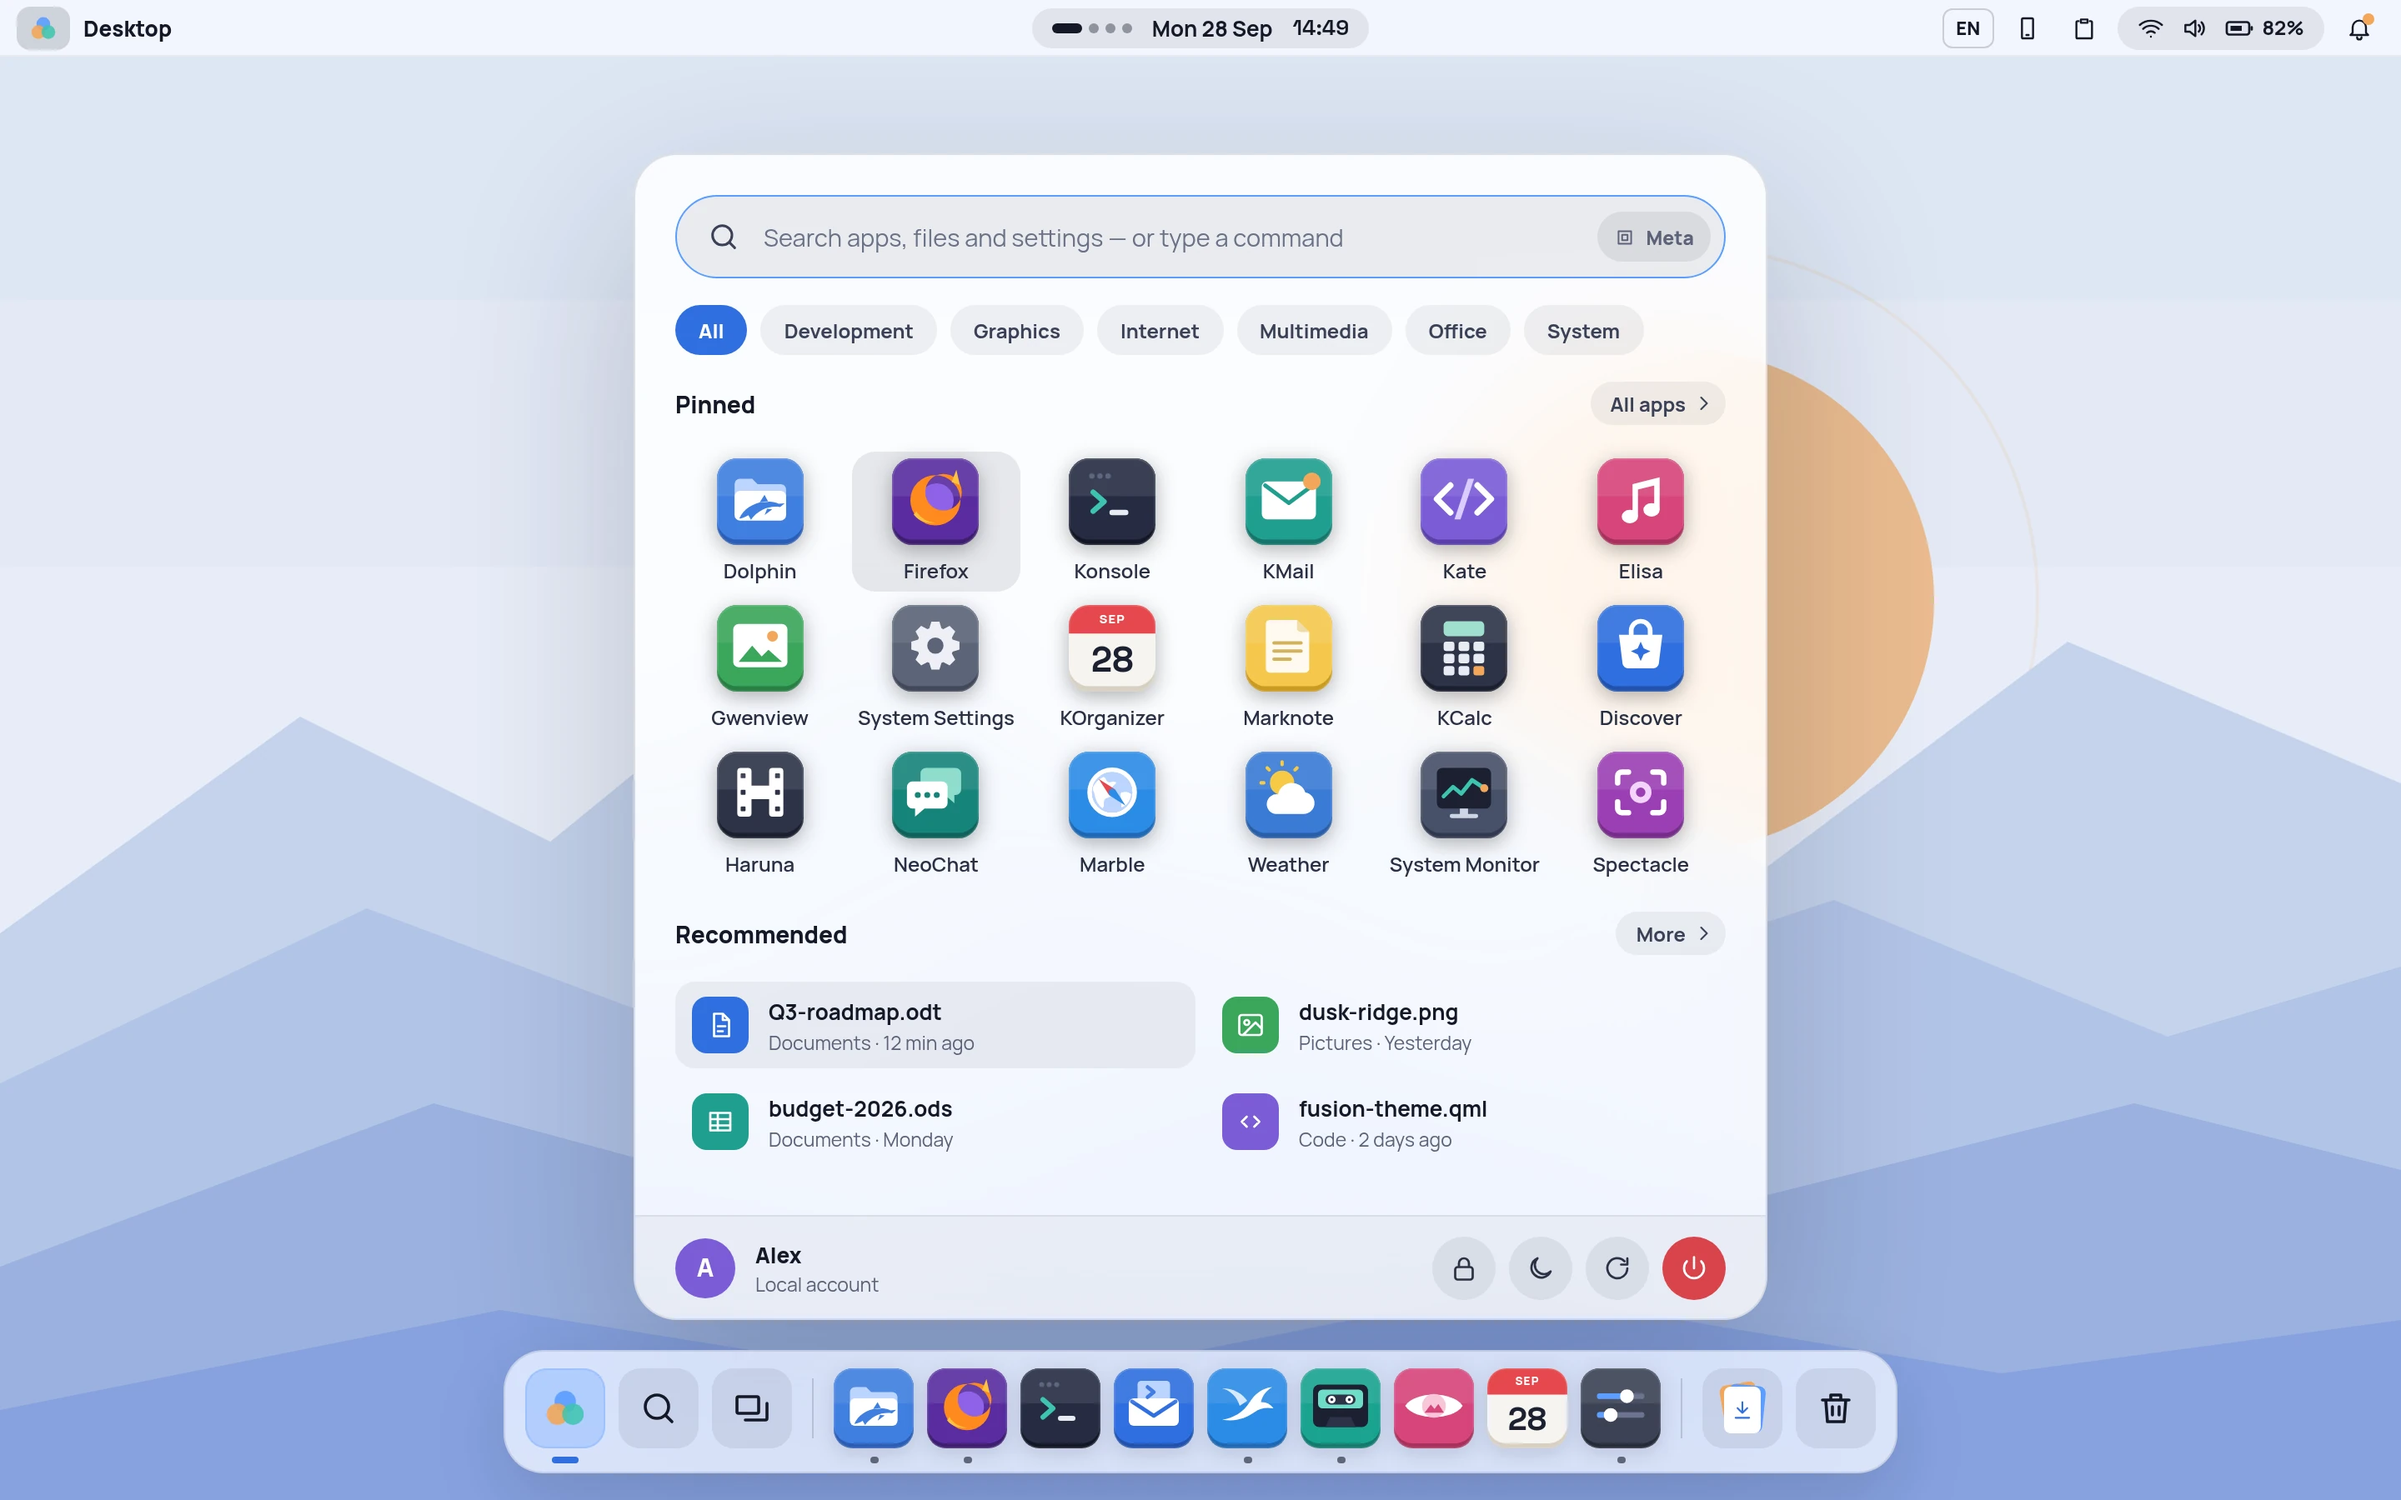
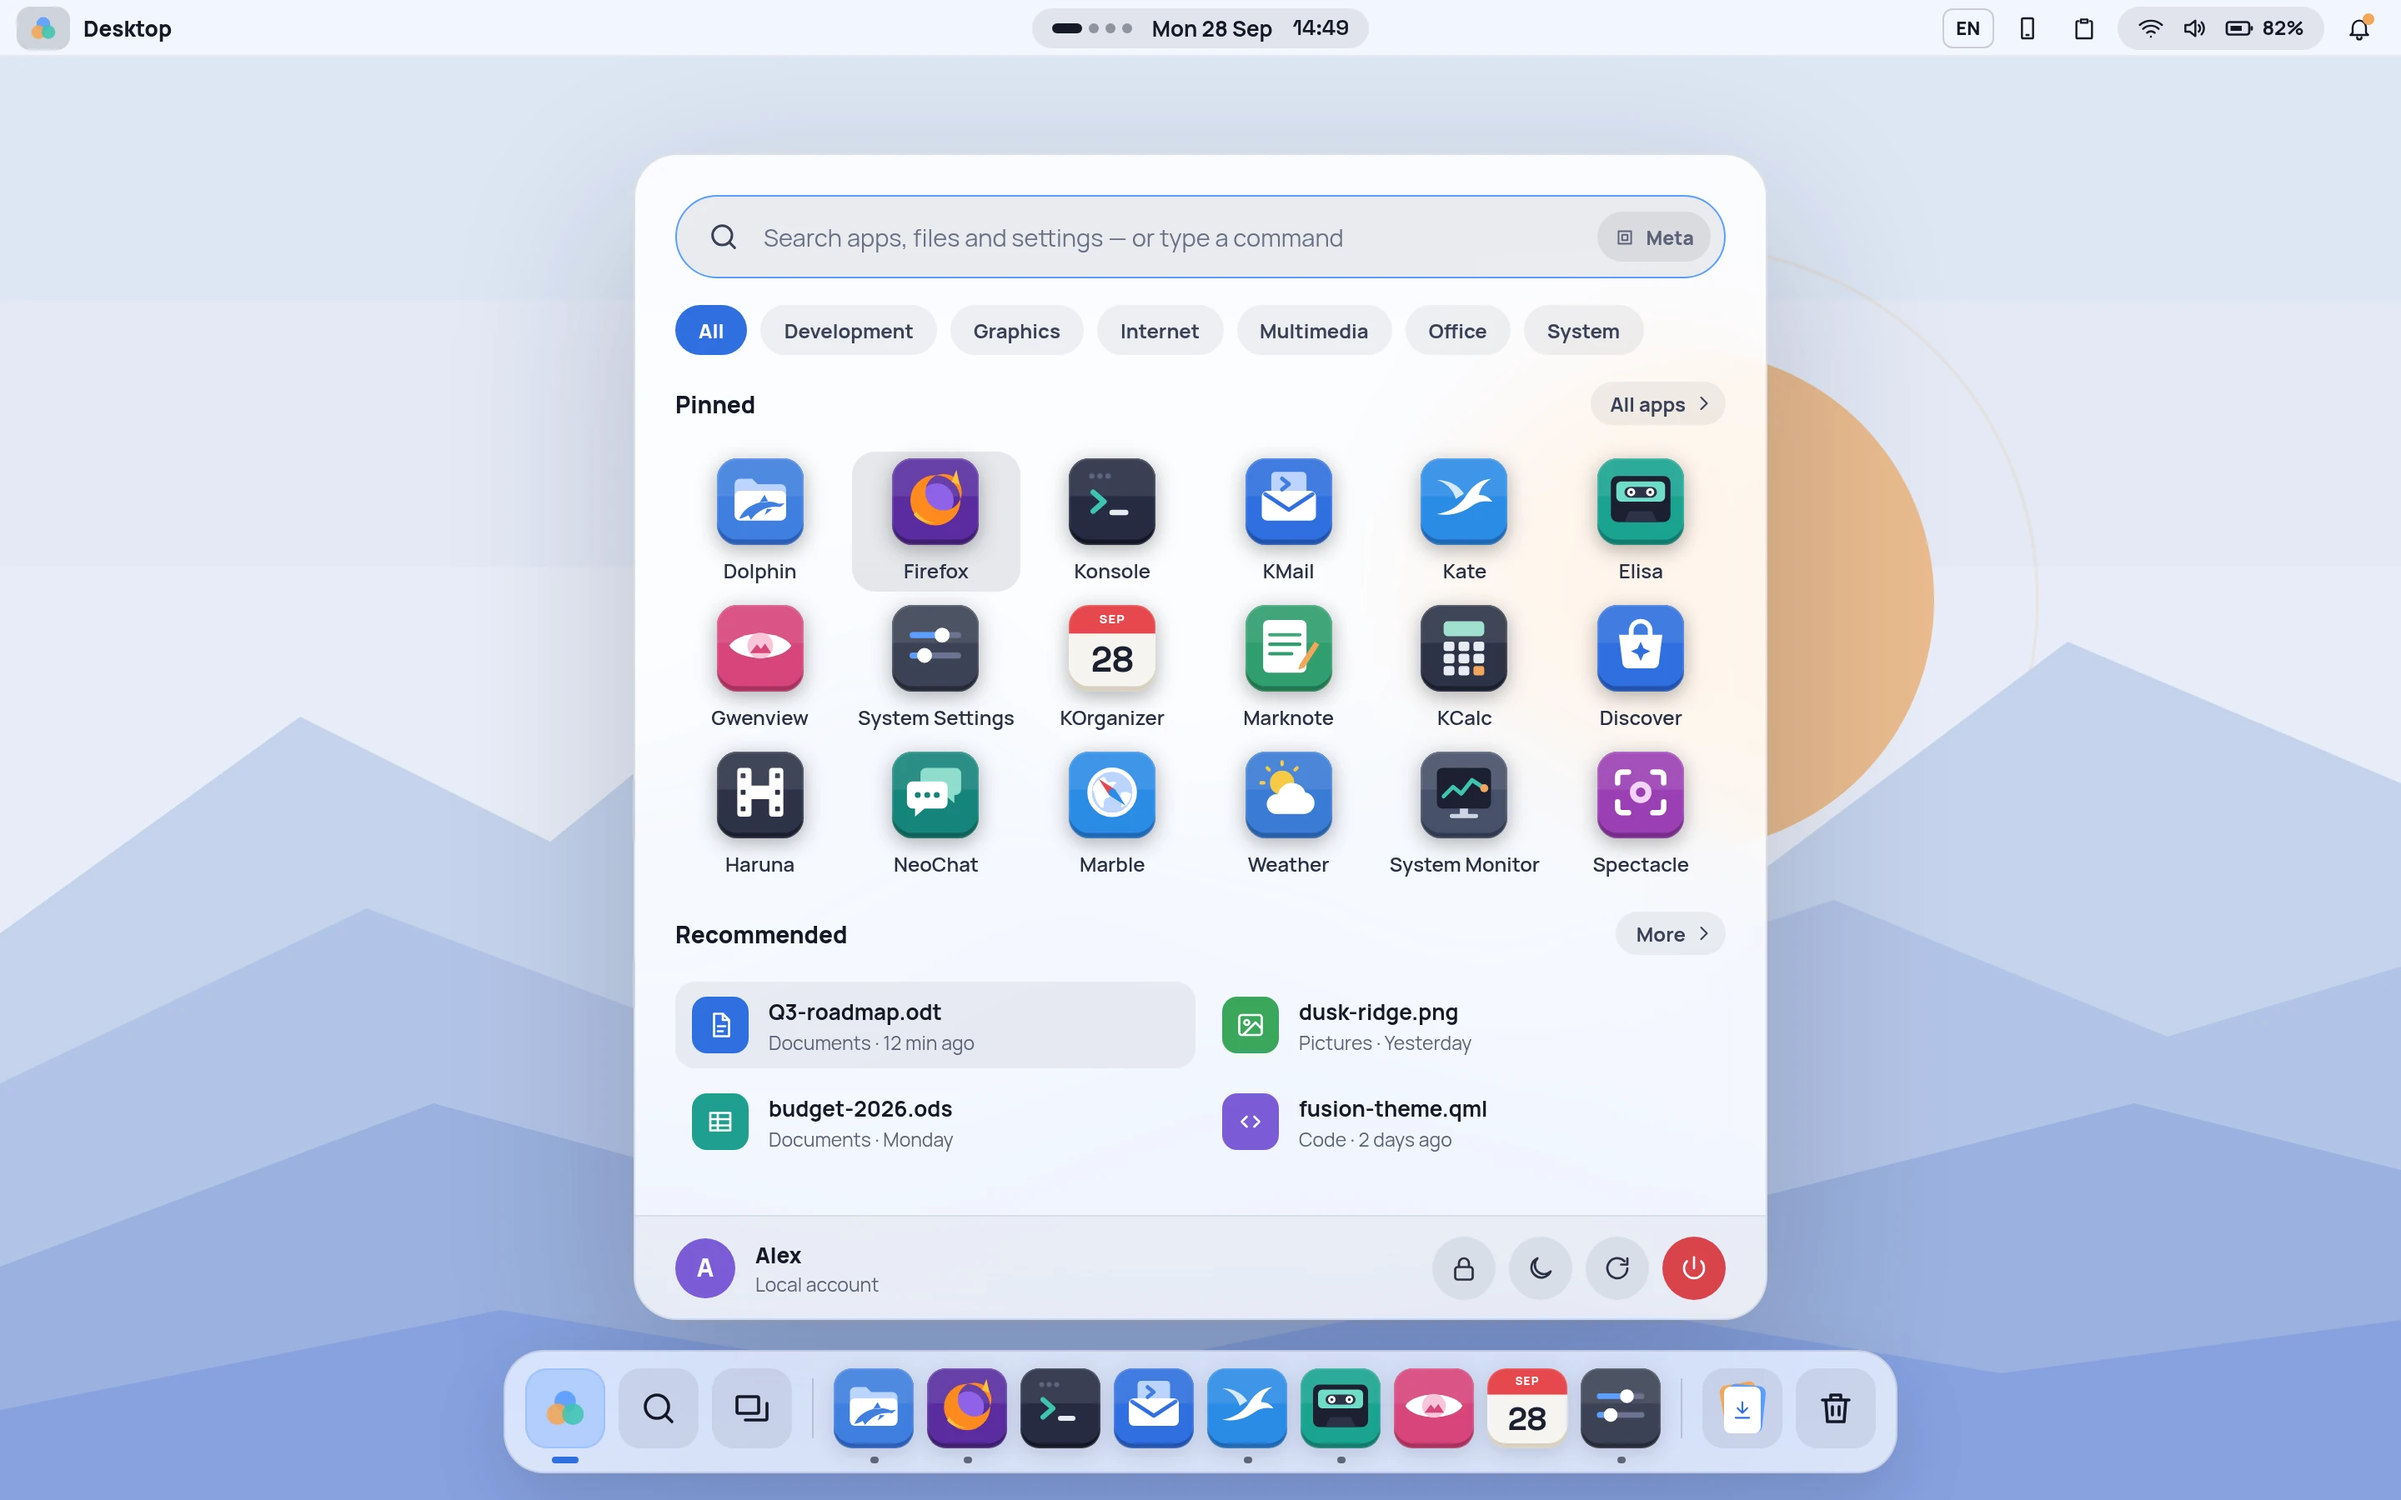
Design: the launcher grid draws the branded tiles its names promise
The grid template's mapping passed mail, code, music, photos, settings
and notes straight to AppIcon, so KMail, Kate, Elisa, Gwenview, System
Settings and Marknote drew the old generic tiles beside their names (and
unlike the dock); the mapping now translates them to the generated
per-app keys in both launcher boards, and the emitter test checks every
pinned app's grid key against the tile the theme ships for it.

Both launcher previews re-rendered; --check is mean 0.0 / worst window
0.0 for all 27 boards.

diff --git a/design/boards/Launcher.dc.html b/design/boards/Launcher.dc.html
@@ -196,7 +196,7 @@ class Component extends DCLogic {
       ['Marble', 'pin', '#4a8f3a', '#ffffff'], ['Weather', 'cloud', '#3a7bd5', '#ffffff'],
       ['System Monitor', 'cpu', '#475069', '#ffffff'], ['Spectacle', 'crop', '#9b3fb5', '#ffffff']
     ];
-    const apps = A.map((x, i) => ({ name: x[0], key: x[1] === 'calc' ? 'calculator' : x[1] === 'bag' ? 'software' : x[1] === 'play' ? 'haruna' : x[1] === 'pin' ? 'marble' : x[1] === 'cloud' ? 'weather' : x[1] === 'cpu' ? 'monitor' : x[1] === 'crop' ? 'screenshot' : x[1] === 'folder' ? 'dolphin' : x[1] === 'globe' ? 'firefox' : x[1], d: I[x[1]], bg: x[2], fg: x[3], hov: i === 1 ? 'rgba(255,255,255,0.09)' : 'transparent' }));
+    const apps = A.map((x, i) => ({ name: x[0], key: x[1] === 'calc' ? 'calculator' : x[1] === 'bag' ? 'software' : x[1] === 'play' ? 'haruna' : x[1] === 'pin' ? 'marble' : x[1] === 'cloud' ? 'weather' : x[1] === 'cpu' ? 'monitor' : x[1] === 'crop' ? 'screenshot' : x[1] === 'folder' ? 'dolphin' : x[1] === 'globe' ? 'firefox' : x[1] === 'mail' ? 'kmail' : x[1] === 'code' ? 'kate' : x[1] === 'music' ? 'elisa' : x[1] === 'photos' ? 'gwenview' : x[1] === 'settings' ? 'systemsettings' : x[1] === 'notes' ? 'marknote' : x[1], d: I[x[1]], bg: x[2], fg: x[3], hov: i === 1 ? 'rgba(255,255,255,0.09)' : 'transparent' }));
     const mk = (name, key, bg, fg, run) => ({ name, key, d: I[key], s: 48, r: 13, ic: 25, bg, fg, running: !!run, indW: 5, indC: 'rgba(255,255,255,0.6)' });
     const dock = [
       mk('Dolphin', 'dolphin', '#3f7fe0', '#ffffff', true),

diff --git a/design/boards/LauncherLight.dc.html b/design/boards/LauncherLight.dc.html
@@ -196,7 +196,7 @@ class Component extends DCLogic {
       ['Marble', 'pin', '#4a8f3a', '#ffffff'], ['Weather', 'cloud', '#3a7bd5', '#ffffff'],
       ['System Monitor', 'cpu', '#475069', '#ffffff'], ['Spectacle', 'crop', '#9b3fb5', '#ffffff']
     ];
-    const apps = A.map((x, i) => ({ name: x[0], key: x[1] === 'calc' ? 'calculator' : x[1] === 'bag' ? 'software' : x[1] === 'play' ? 'haruna' : x[1] === 'pin' ? 'marble' : x[1] === 'cloud' ? 'weather' : x[1] === 'cpu' ? 'monitor' : x[1] === 'crop' ? 'screenshot' : x[1] === 'folder' ? 'dolphin' : x[1] === 'globe' ? 'firefox' : x[1], d: I[x[1]], bg: x[2], fg: x[3], hov: i === 1 ? 'rgba(20,24,39,0.09)' : 'transparent' }));
+    const apps = A.map((x, i) => ({ name: x[0], key: x[1] === 'calc' ? 'calculator' : x[1] === 'bag' ? 'software' : x[1] === 'play' ? 'haruna' : x[1] === 'pin' ? 'marble' : x[1] === 'cloud' ? 'weather' : x[1] === 'cpu' ? 'monitor' : x[1] === 'crop' ? 'screenshot' : x[1] === 'folder' ? 'dolphin' : x[1] === 'globe' ? 'firefox' : x[1] === 'mail' ? 'kmail' : x[1] === 'code' ? 'kate' : x[1] === 'music' ? 'elisa' : x[1] === 'photos' ? 'gwenview' : x[1] === 'settings' ? 'systemsettings' : x[1] === 'notes' ? 'marknote' : x[1], d: I[x[1]], bg: x[2], fg: x[3], hov: i === 1 ? 'rgba(20,24,39,0.09)' : 'transparent' }));
     const mk = (name, key, bg, fg, run) => ({ name, key, d: I[key], s: 48, r: 13, ic: 25, bg, fg, running: !!run, indW: 5, indC: 'rgba(20,24,39,0.6)' });
     const dock = [
       mk('Dolphin', 'dolphin', '#3f7fe0', '#ffffff', true),

diff --git a/generators/icons/tests/emit_board_tiles_test.py b/generators/icons/tests/emit_board_tiles_test.py
@@ -47,5 +47,27 @@ for path in emit.TABLET:
     check(emit.tablet_html(path) == Path(path).read_text(),
           f"{Path(path).name} carries the drawings the theme ships")
 
+# The launcher grid's entries draw through AppIcon: each pinned app's tile key must be the one the
+# theme ships for it (the board's mapping translates the drawing keys used by the grid template).
+LAUNCHER = [ROOT / "design" / "boards" / "Launcher.dc.html",
+            ROOT / "design" / "boards" / "LauncherLight.dc.html"]
+PIN_TILES = {
+    "Dolphin": "dolphin", "Firefox": "firefox", "Konsole": "terminal", "KMail": "kmail",
+    "Kate": "kate", "Elisa": "elisa", "Gwenview": "gwenview", "System Settings": "systemsettings",
+    "KOrganizer": "calendar", "Marknote": "marknote", "KCalc": "calculator", "Discover": "software",
+    "Haruna": "haruna", "NeoChat": "chat", "Marble": "marble", "Weather": "weather",
+    "System Monitor": "monitor", "Spectacle": "screenshot",
+}
+import re  # noqa: E402
+
+for path in LAUNCHER:
+    html = path.read_text()
+    grid = html.split("const A = [", 1)[1].split("];", 1)[0]
+    mapping = dict(re.findall(r"x\[1\] === '([^']+)' \? '([^']+)'", html))
+    for name, key in re.findall(r"\['([^']+)', '([^']+)', '#", grid):
+        want = PIN_TILES.get(name)
+        got = mapping.get(key, key)
+        check(want == got, f"{path.name}: {name} draws {got} (expected {want})")
+
 print(f"board tile emitter test: {checks - len(failures)}/{checks} passed")
 sys.exit(1 if failures else 0)
